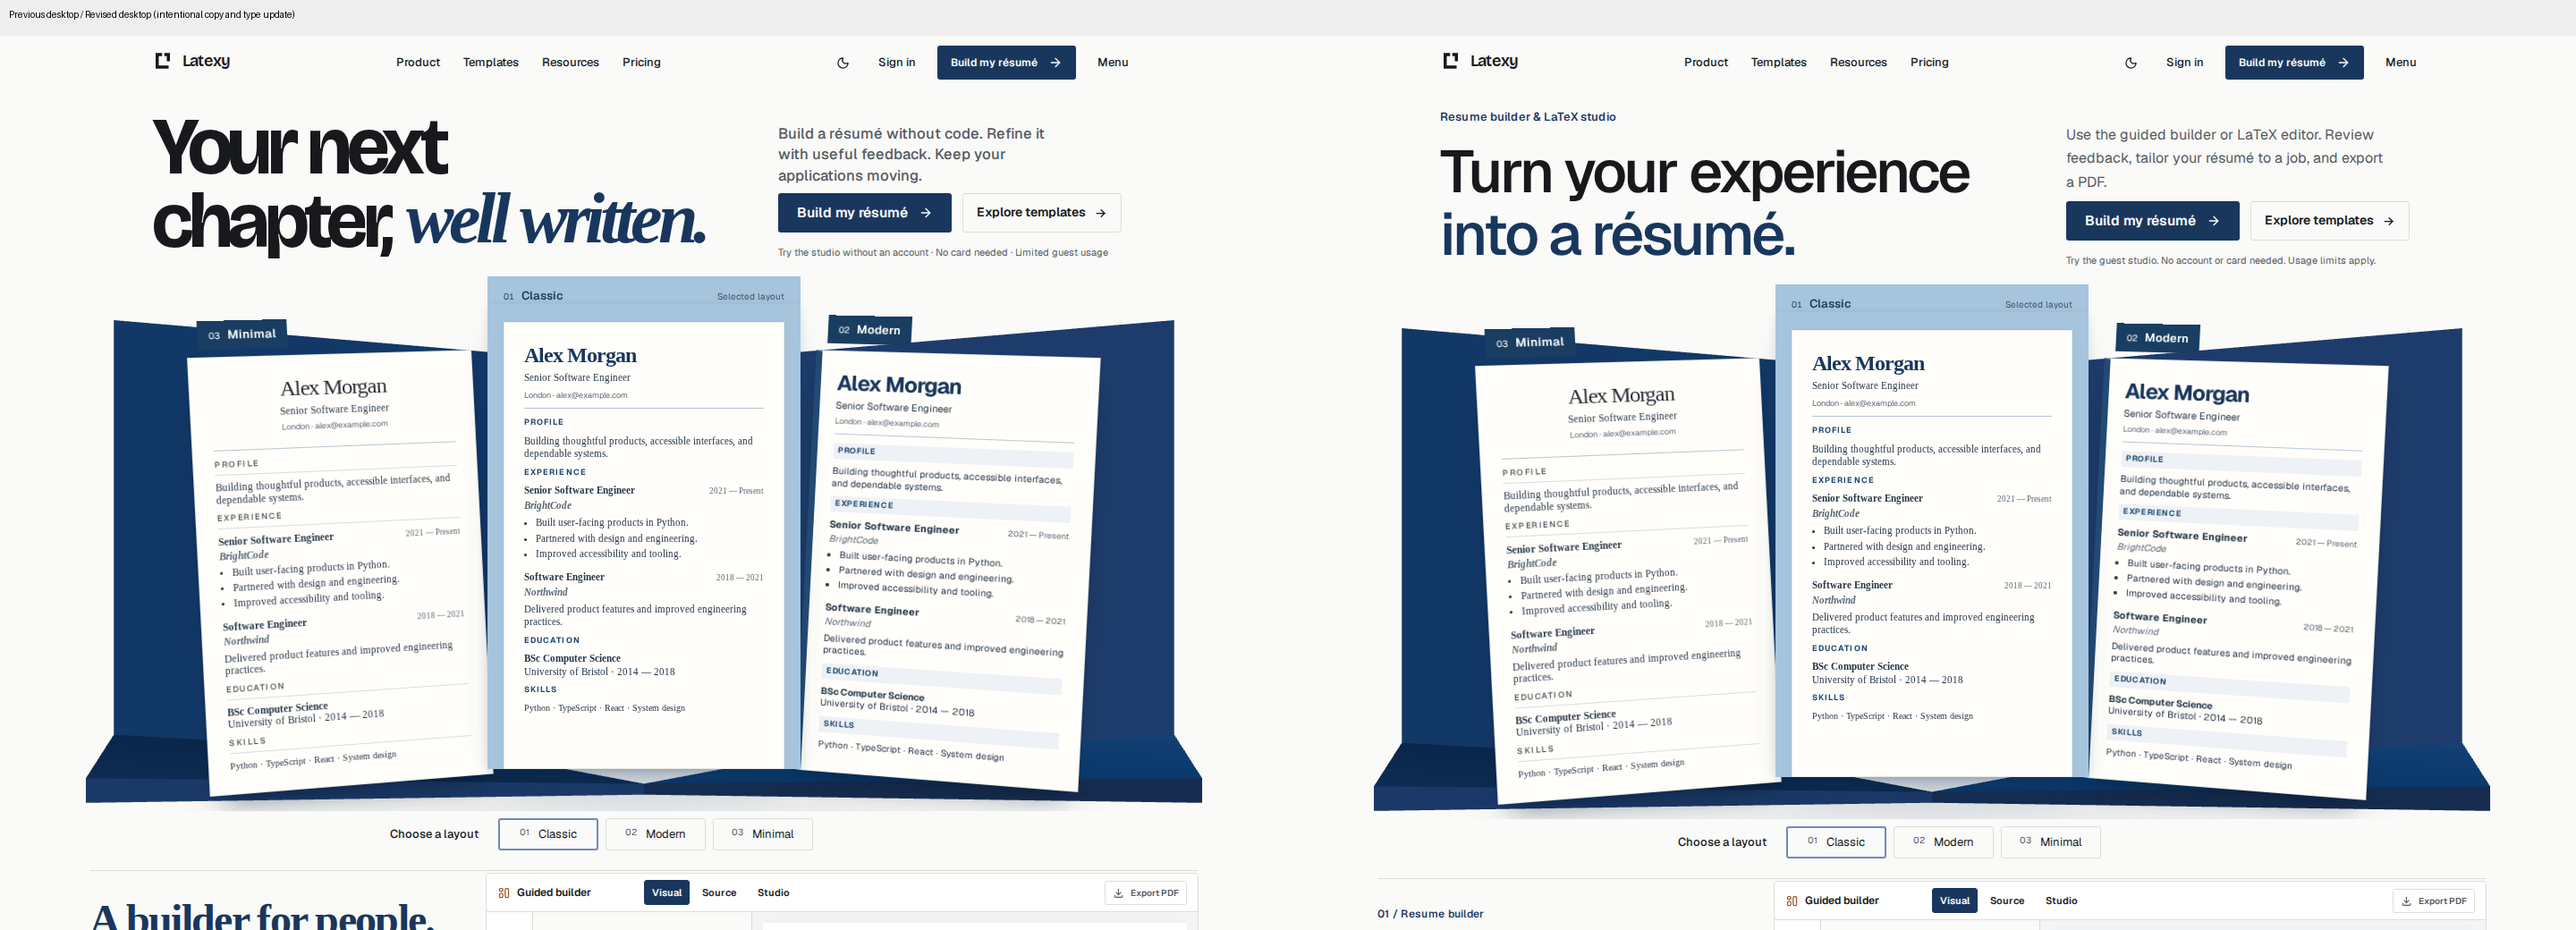
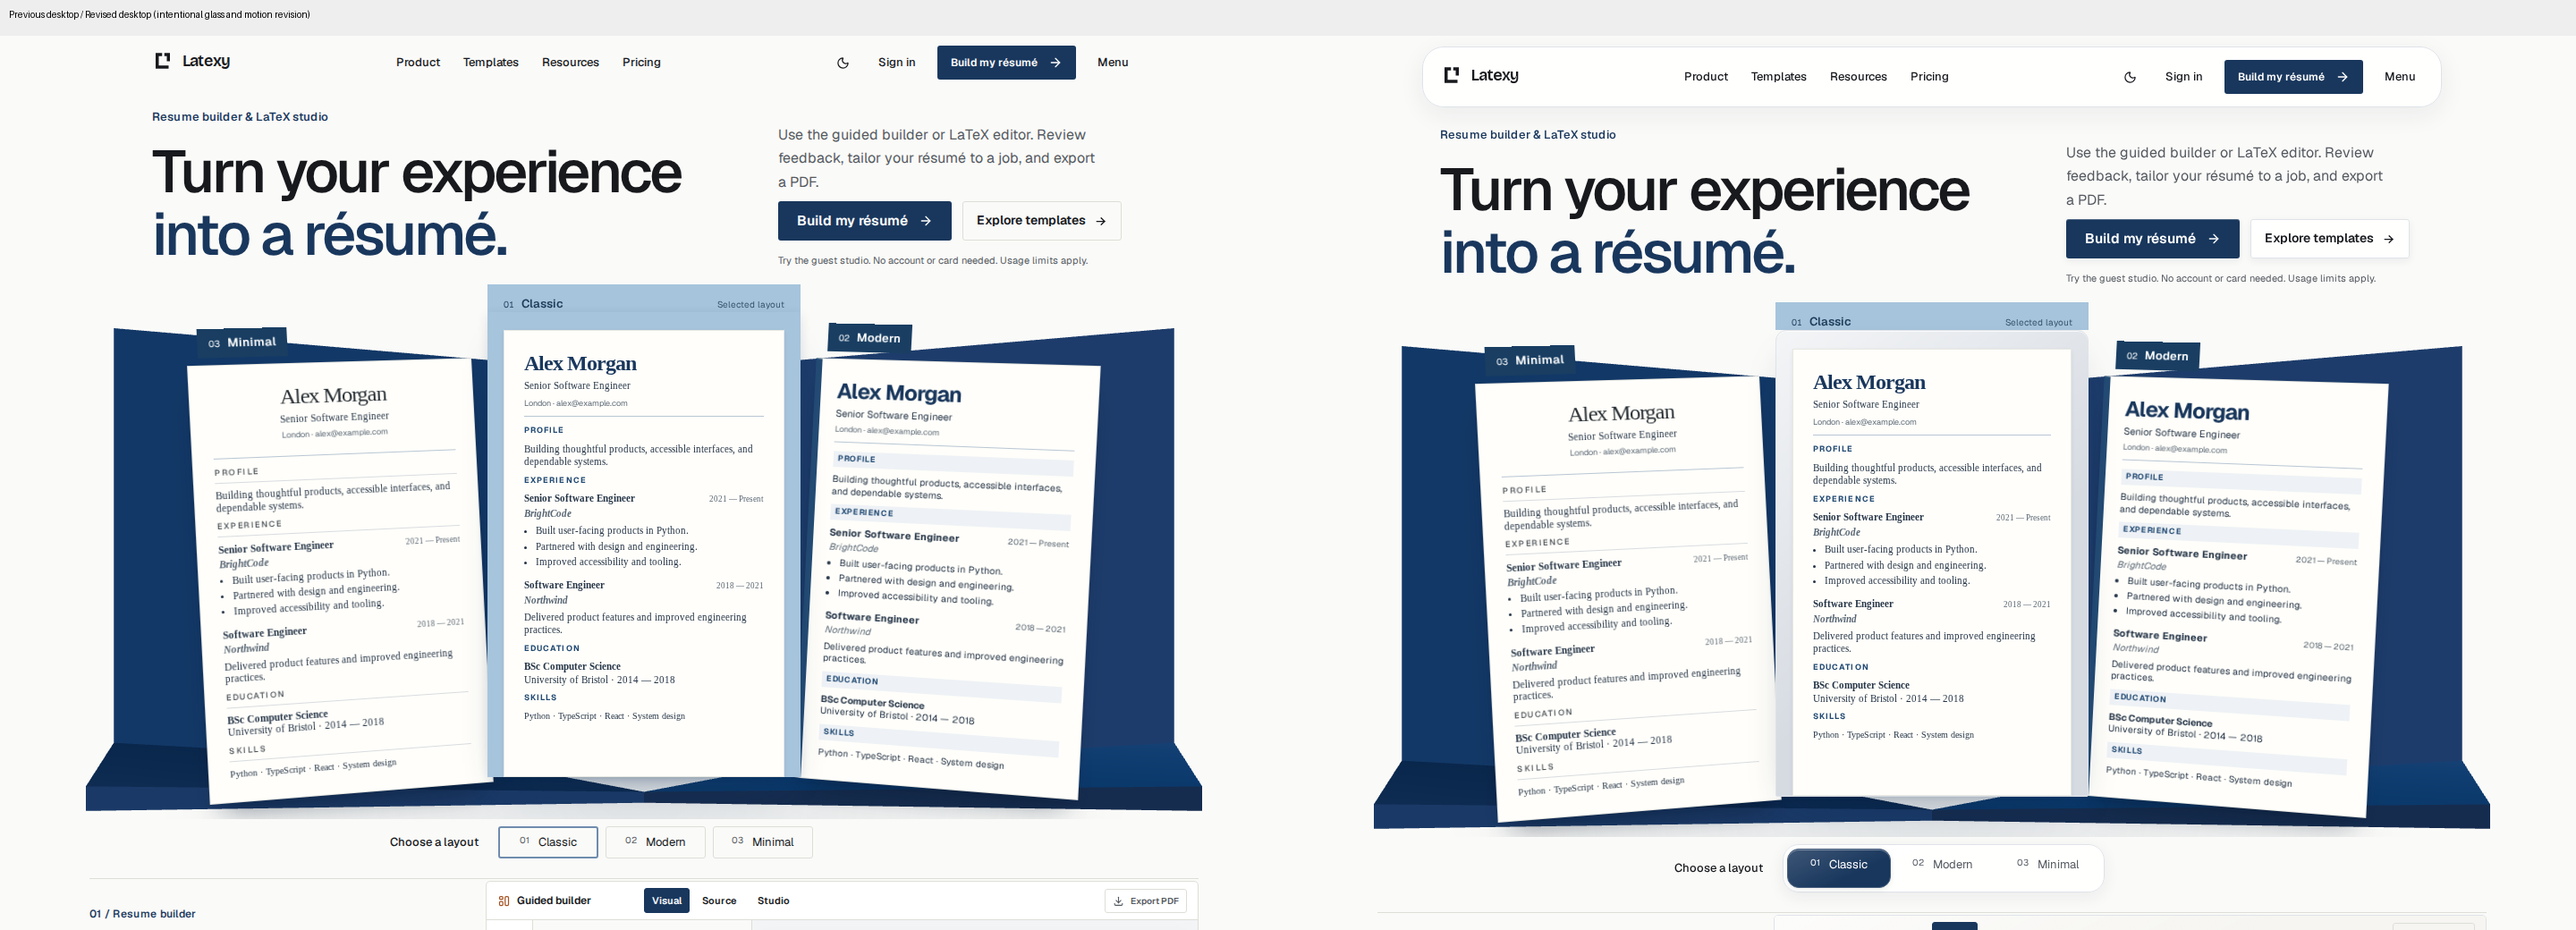
Record final glass landing production review

diff --git a/design-qa.md b/design-qa.md
@@ -1,59 +1,62 @@
-# Landing page visual QA — mobile typography and copy
+# Landing page visual QA — glass, motion and sound
 
 ## Target and scope
 
-Baseline: the previous PR #1899 production captures from source `5bbf7fa80dd4f924c392fc0c75768f81e07a6715`, CI run 38783439606. The latest request approves the desktop composition but explicitly replaces the typography, vague copy and mobile presentation. The baseline is a composition reference, not a requirement to retain its rejected text or fonts.
+Baseline source `46e0b5c94f55643d677a04eb8b0ac55abf75fbe8`, CI run 38855173196. Source visual truth: `C:/Users/Sansk/.codex/visualizations/2026/10/16/mobile-copy/mobile-production/`.
 
-Source visual truth: `C:/Users/Sansk/.codex/visualizations/2026/10/15/hero-art-direction/hero-production/`.
+The requested revision intentionally adds a glass control layer, motion and optional sound to this composition. The reference examples and implementation decisions are documented in `docs/design/landing-glass-and-motion.md`. This is a refinement of the existing homepage, not a clone of the unrelated reference sites.
 
-Implementation: source `46e0b5c94f55643d677a04eb8b0ac55abf75fbe8`, production captures from CI run `38855173196`, extracted into `C:/Users/Sansk/.codex/visualizations/2026/10/16/mobile-copy/mobile-production/`. Public copies and image hashes are in `docs/design/landing-art-direction/provenance.json` on this evidence branch.
+Implementation source: `136eb5a95bac7558ae4d3ab78432f415781c1f0b`. Production captures: CI run `38895240269`, extracted into `C:/Users/Sansk/.codex/visualizations/2026/10/16/liquid-glass/glass-final/`. Published copies and hashes: `docs/design/landing-art-direction/provenance.json` on this evidence branch. Its frontend tree is identical to the PR source tree.
 
 ## Capture states and normalization
 
-- Desktop: 1440 × 1000 CSS pixels, DPR 1, light and dark, Classic selected. Full page and each section captured separately.
-- Phone: first-screen captures at 320, 390 and 430 × 844 CSS pixels, DPR 2.625, light and dark, default compact sample. Source and current 390px captures are both 1024 × 2216 pixels, so no density correction is needed for that pair. Focused section comparisons normalize both sides to a 390px image width; desktop pairs remain at 1x. Original capture dimensions are recorded in provenance.
-- Full phone pages and section crops use the device project's original 412 × 839 CSS viewport and DPR 2.625; they are not labeled as the separate 390px first-screen captures.
-- Reduced-motion baseline; separate checks exercise normal motion, then verify animations stop when reduced motion is enabled.
-- Public, allowed feature fixture; no account data. Browser review also covered the real unresolved-capability state and public fallback links.
+- Desktop: 1440 × 1000 CSS pixels, DPR 1, light/dark, Classic selected. Full page and individual sections.
+- Phone first screens: 320/390/430 × 844 CSS pixels, DPR 2.625, light/dark. The baseline and implementation 390px captures both measure 1024 × 2216 pixels. Pair these originals without unequal density scaling.
+- Full phone pages and section captures: 412 × 839 CSS pixels, DPR 2.625. Focused paired section images normalize both sources to 390px image width for reading.
+- Preferences screenshots use the browser projects' 1280 × 720 desktop and 412 × 839 phone viewports. Their menu is open with sound explicitly enabled.
+- Screenshot fixtures use reduced motion, allowed public product capabilities, no private document content and default sample data. Other functional checks exercise normal motion, no-WebGL, keyboard/touch controls and feature-unavailable states.
+- Local review also covered a 320px light phone, 390px dark phone, 1440px desktop, scrolled sticky navigation and an 844 × 390 landscape menu. The local unresolved-capability banner is expected without the backend and is not present in the allowed production screenshot fixture.
 
 ## Comparison evidence
 
-Local iteration comparisons are in `C:/Users/Sansk/.codex/visualizations/2026/10/16/mobile-copy/review-final/`. Final production comparisons are in the adjacent `mobile-production/` directory.
+Baseline and implementation are placed together in every comparison input. Local iteration comparisons: `C:/Users/Sansk/.codex/visualizations/2026/10/16/liquid-glass/review-final/`. Final production comparisons: adjacent `glass-final/`.
 
-- `comparison-desktop-light.png`, `comparison-desktop-dark.png`: baseline and implementation together at identical CSS size; check the retained document composition and updated headline proportions.
-- `comparison-mobile-light.png`, `comparison-mobile-dark.png`: matched 390px first screens together, with device density normalized equally.
-- `comparison-lp-builder-section-light.png`, `comparison-lp-analysis-section-dark.png`, `comparison-lp-tailoring-section-light.png`, `comparison-lp-applications-section-dark.png`, `comparison-lp-latex-section-light.png`, `comparison-lp-faq-light.png`, `comparison-lp-footer-light.png`: readable focused comparisons, not only long downscaled page strips.
+- `comparison-desktop-light.png` and `comparison-desktop-dark.png`: matched top-of-page composition, native documents and navigation.
+- `comparison-mobile-light.png` and `comparison-mobile-dark.png`: matched 390px first screens.
+- Focused pairs for `lp-builder-section`, `lp-analysis-section`, `lp-tailoring-section`, `lp-applications-section`, `lp-latex-section`, `lp-faq` and `lp-footer` in both themes.
+- Original phone captures at 320/390/430px, gallery and preferences screenshots provide readable control detail. Section element screenshots can include the sticky header over the scrolled content; the full-page screenshot is used to assess unobscured section composition.
 
 ## Iteration history
 
-1. **P2 — vague headline and inconsistent type hierarchy.** The baseline combines a compressed display face, italic serif slogan and small explanatory text. Replace the slogan with a concrete résumé-building headline, scope Geist to homepage headings, and increase explanatory and FAQ text to 16px. Rechecked both themes and all phone widths.
-2. **P2 — mobile hero places interaction after the document.** Move the layout selector before the sample, expose adjacent native paper layouts, retain the expandable selected document, and keep the gallery compact. Existing containment, no-WebGL and touch-target checks pass.
-3. **P2 — words join when desktop line breaks are hidden on phones.** The first revised capture showed “résumé.See” and “gapsbefore”. Add explicit text spaces around those line breaks. The final focused builder/analysis/LaTeX comparisons show correct spacing and wrapping.
-4. **P2 — footer becomes only text on phones.** Restore the existing paper illustration in the mobile composition, with a constrained width and its existing reduced-motion behavior. Require a loaded, visible image in the visual contract; do not relax application behavior tests.
-5. **P3 — narrow hero description ends with a single-word line.** Shorten the description to name the guided builder and LaTeX editor directly, and enable improved paragraph wrapping. Recheck 320px in both themes; the PDF phrase remains together in the reviewed captures.
+1. **P2 — contrast mode retains the blur.** Initial integration checks showed the emitted CSS had lost the backdrop-filter reset even though the source declaration existed. Reverse the prefixed/standard reset order. The final browser contract requires the actual computed filter to be `none`, after the root contrast state changes. Both local desktop and phone checks pass; existing tests were not weakened.
+2. **P2 — sticky menu in a short viewport.** Constrain its maximum height to the viewport and allow internal scrolling. At 844 × 390 the measured menu remains inside the viewport while all preferences and links remain scrollable. Add anchor scroll margins so the sticky header does not cover target headings.
+3. **P2 — sound preference stacks into a tall block.** The first production menu capture exposed the missing flex row. Give both preference controls the same row alignment/radius and remove the redundant waveform. Keep the dropdown reading surface opaque with its material rim. The initial dark capture also caught an opening animation; final captures now wait for opacity 1 and height auto before visual assessment. Recheck enabled sound in both themes on desktop and phone, with a maximum 52px row-height regression guard.
+4. **P2 — enabled sound needs a visible keyboard focus ring.** The active control uses the accent fill, so its inset accent outline did not remain visible. Move the outline 2px outside the button. The final source commit contains this correction; the tested menu captures show its ordinary enabled state.
+5. The paired visual review confirms the intended changes: floating header, shallow document rim, coherent sliding selector and tactile secondary CTA. Existing section composition, brand, text and document content are retained.
 
 ## Required fidelity surfaces
 
-- **Typography:** self-hosted Geist Sans is used for homepage headings and readable body copy; document templates retain their own typography. The mixed italic slogan treatment is intentionally removed. Heading wraps and labels remain legible at 320px. The approved logo is unchanged.
-- **Spacing and layout:** desktop hero/document arrangement is retained. Mobile selects a layout before the layered sample, keeps CTAs adjacent, and uses distinct feature labels and consistent section spacing. Demos retain focused phone views instead of stacking entire desktop workspaces.
-- **Colors and tokens:** existing light navy/off-white and dark charcoal/brass tokens remain. The mobile paper stage uses the existing soft surface so the documents remain the visual focus. No extra contrast switch is added to the header.
-- **Image quality:** hero content is selectable HTML, not a pasted image. Optional Three.js supplies depth; layout controls and content work without WebGL. Footer artwork is the existing high-resolution decorative asset. The generated social preview was opened and inspected for text fit.
-- **Copy and content:** headline, feature explanations, footer, social metadata and social preview are consistent. Claims describe existing capabilities. ATS feedback is guidance; suggested experience must remain accurate. Guest limits and account requirements are visible. FAQ schema is generated from the same visible answers. Research rationale and sources are in `docs/design/landing-copy-and-type.md`.
+- **Typography:** existing self-hosted Geist hierarchy is retained. Native résumé templates keep their typography. Headline, explanatory text and selector labels are readable in the narrow phone captures. No typeface download was added.
+- **Spacing and layout:** the floating header adds a small intentional vertical offset. Phone CTAs remain beside each other, Classic remains first/default, demos stay in focused phone views, and the footer keeps its visible paper illustration. Menu controls remain available in short windows.
+- **Colors and tokens:** navy/off-white light and brass/charcoal dark palettes remain. Glass has a restrained rim/highlight; reading surfaces remain opaque. High contrast and reduced transparency remove navigation blur. Only one theme control is visible; contrast and sound are inside Preferences.
+- **Image quality:** hero documents remain real selectable HTML, with optional existing Three.js depth. No raster hero, stock background or generated full-page image was introduced. Logo and existing decorative footer artwork remain sharp and unchanged.
+- **Copy and content:** the existing product-specific copy and metadata are retained. No fabricated features, testimonials, conversion claims or phrases from the reference sites were added. The only new product text is the explicit sound preference and Preferences label.
 
-## Interaction and verification
+## Interaction and performance verification
 
-- Classic is first/default; layout controls work with pointer and keyboard.
-- Compact/full sample toggles; selected document stays within its scene at narrow widths.
-- Builder edits persist across edit, preview and authoring modes.
-- ATS categories, tailoring edits/acceptance, board menus and compiler/PDF tabs retain their behavior.
-- One visible theme control; contrast remains inside the keyboard-accessible menu.
-- No horizontal page overflow or undersized primary controls in the existing phone checks.
-- No landing hydration errors in the screenshot contract.
-- Local TypeScript and scoped ESLint pass. Initial landing run: 9 passed, 3 device-inapplicable skips. Final screenshot/mobile run: 3 passed, 1 skip.
-- Final CI results: {"total": 200, "expected": 190, "unexpected": 0, "flaky": 0, "skipped": 10, "ok": true}.
+- Six local sound unit tests pass. Local TypeScript and scoped ESLint pass.
+- The earlier implementation commit passed the full frontend unit suite: 2,891 tests across 293 files. The final source commit's quality job ran its applicable browser suites, including the sound contract.
+- Local landing browser checks: 13 passed, 3 device-specific skips, no failures/flaky tests.
+- Browser sound contract: no AudioContext from load or scroll, opt-in creates one, selecting a layout reuses it, mute closes it, no media requests, high contrast computes no blur.
+- Existing builder edits, authoring modes, ATS controls, tailoring actions, application menus, compiler/PDF tabs, public feature gates, keyboard menu dismissal and theme controls remain covered.
+- Reduced motion, no-WebGL and narrow-screen containment retain their existing checks. No landing hydration errors in the visual contract.
+- No dependency or audio file added. Native CSS scroll timelines provide progressive enhancement without a new JavaScript scroll loop. Blur is limited to navigation surfaces; there is still a small compositing cost.
+- Production CI quality results: {"total": 205, "expected": 195, "unexpected": 0, "flaky": 0, "skipped": 10, "ok": true}.
 
 ## Findings and limits
 
-No remaining actionable P0/P1/P2 findings in the reviewed states. This is a technical visual QA result for the requested direction; aesthetic approval of the new typography and copy remains with the user. It does not claim a search ranking or conversion improvement. No merge was performed.
+The final production captures were reviewed at 320, 390 and 430 CSS pixels and at desktop size in both themes. The open Preferences menu remains readable and compact in both themes on phone and desktop. No remaining P0, P1 or P2 issue was found in those captures or the applicable browser checks. The final source still needs the user's aesthetic review before this draft PR is merged.
 
-**Final result: passed**
+The Vercel deployment check passed, but its preview URL required login in the available browser. Visual acceptance is based on the actual local page and production-bundle CI renders rather than a claim of inspecting that protected deployment.
+
+**Final result: passed for the tested source and production captures; draft visual review remains open.**
